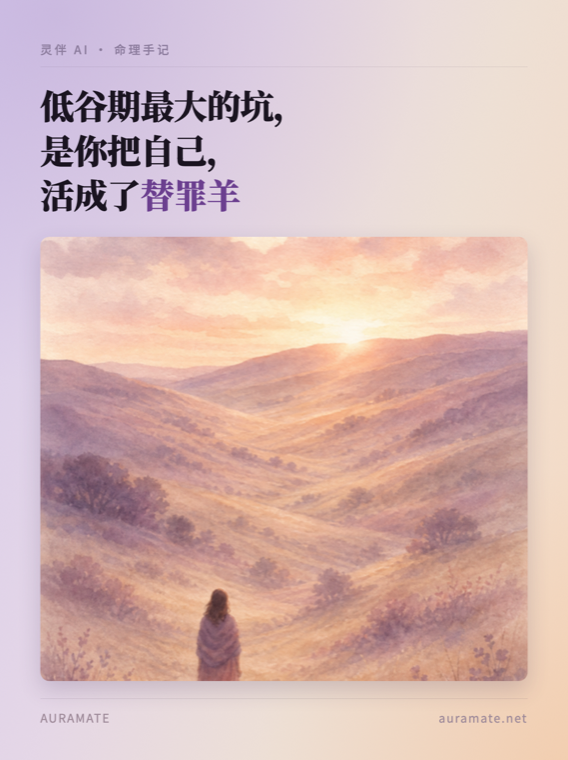
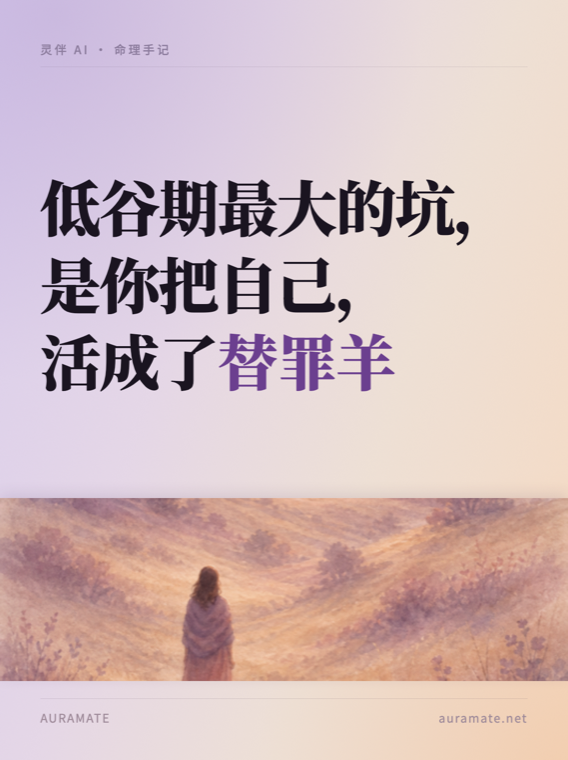
封面 v3：标题当主角，插图退成底部横带
v2 把插图 flex:1 铺满，图喧宾夺主 —— 用户「标题最重要，配图不能占大头」。

标题 74 → 132px，flex:1 垂直居中占上半。字号按每行字数选：
≤6 字 150 / 7–8 字 132 / 9–10 字 106。实测 148px 配 8 字会折行、
把手动 <br/> 断行冲掉，132 是 8 字行的天花板。

插图改成底部 400px（画面 24%）横带，margin:0 -88px 出血到左右边缘、
去圆角、只在上沿留一道浅阴影。竖构图插画裁成横带会切掉主体，
object-position:center 76% 把背影拉回画面。

v1 留白过多和 v2 图喧宾夺主两版都写进 02-visual-system.md 当反面教材。

diff --git a/templates/editorial-gradient/cover.html b/templates/editorial-gradient/cover.html
@@ -1,8 +1,17 @@
 <!doctype html><html><head><meta charset=utf-8><style>
-/* 模板 A · 渐变编辑风 —— 封面页  (v2, 2026-08-10)
-   字号：短标题 82 / 长标题 74。手动 <br/> 断行，别拆词。
-   插图 codex-image 生成，object-fit:cover 铺满 —— 会裁掉上下边，
-   生图时 prompt 里让主体居中，别把关键元素顶在画面边缘。 */
+/* 模板 A · 渐变编辑风 —— 封面页  (v3, 2026-08-10)
+   ★ 标题是主角，插图是配角。标题块 flex:1 占上半，插图是底部一条固定高度的横带。
+     v2 曾把插图 flex:1 铺满，图喧宾夺主 —— 用户原话「标题最重要，配图不能占大头」。
+
+   标题字号按每行字数选（手动 <br/> 断行，别拆词）：
+     每行 ≤6 字   → 150
+     每行 7–8 字  → 132  ← 默认
+     每行 9–10 字 → 106
+   超了会自动折行、把手动断行冲掉（148px 配 8 字就爆了，实测过）。
+
+   插图：底部横带 400px（画面 24%），margin:0 -88px 出血到左右边缘、不留圆角。
+   object-position:center 76% —— 竖构图插画裁成横带会切掉下方主体，
+   这个值把背影/主体拉回画面。换插图要重调这个百分比。 */
 @import url('https://fonts.googleapis.com/css2?family=Noto+Serif+SC:wght@400;500;700;900&family=Noto+Sans+SC:wght@400;500&display=swap');
 *{margin:0;padding:0;box-sizing:border-box;}
 html,body{width:1242px;height:1660px;font-family:'Noto Serif SC','Songti SC',serif;color:#2b2620;overflow:hidden;}
@@ -17,16 +26,17 @@ html,body{width:1242px;height:1660px;font-family:'Noto Serif SC','Songti SC',ser
 .frame > *{position:relative;z-index:1;}
 .kicker{font-family:'Noto Sans SC','PingFang SC',sans-serif;font-size:26px;font-weight:500;letter-spacing:0.2em;color:#8d7d9e;
   padding-bottom:20px;border-bottom:1px solid rgba(90,70,95,0.16);}
-.title{font-size:74px;font-weight:900;line-height:1.32;letter-spacing:-0.015em;color:#1a1420;margin-top:34px;}
+.titlewrap{flex:1;display:flex;align-items:center;min-height:0;}
+.title{font-size:132px;font-weight:900;line-height:1.28;letter-spacing:-0.02em;color:#1a1420;}
 .title .em{color:#6b3f8f;}
-.illo{flex:1;display:flex;align-items:flex-end;justify-content:center;min-height:0;margin-top:44px;}
-.illo img{width:100%;height:100%;object-fit:cover;display:block;border-radius:20px;
-  box-shadow:0 20px 48px rgba(72,48,92,0.20);}
+.illo{height:400px;flex-shrink:0;margin:0 -88px;}
+.illo img{width:100%;height:100%;object-fit:cover;object-position:center 76%;display:block;
+  box-shadow:0 -8px 28px rgba(72,48,92,0.12);}
 .foot{margin-top:38px;padding-top:22px;border-top:1px solid rgba(90,70,95,0.18);display:flex;justify-content:space-between;align-items:center;
   font-family:'Noto Sans SC','PingFang SC',sans-serif;font-size:26px;color:#9e8a99;letter-spacing:0.1em;}
 </style></head><body><div class="frame">
 <div class="kicker">灵伴 AI · {{系列名}}</div>
-<div class="title">{{标题第一行}}，<br/>{{标题第二行}}，<br/>{{第三行含}}<span class="em">{{accent词}}</span></div>
+<div class="titlewrap"><div class="title">{{标题第一行}}，<br/>{{标题第二行}}，<br/>{{第三行含}}<span class="em">{{accent词}}</span></div></div>
 <div class="illo"><img src="assets/illustration.png"/></div>
 <div class="foot"><span>AURAMATE</span><span>auramate.net</span></div>
 </div></body></html>

diff --git a/docs/demo/a1-cover.html b/docs/demo/a1-cover.html
@@ -1,8 +1,17 @@
 <!doctype html><html><head><meta charset=utf-8><style>
-/* 模板 A · 渐变编辑风 —— 封面页  (v2, 2026-08-10)
-   字号：短标题 82 / 长标题 74。手动 <br/> 断行，别拆词。
-   插图 codex-image 生成，object-fit:cover 铺满 —— 会裁掉上下边，
-   生图时 prompt 里让主体居中，别把关键元素顶在画面边缘。 */
+/* 模板 A · 渐变编辑风 —— 封面页  (v3, 2026-08-10)
+   ★ 标题是主角，插图是配角。标题块 flex:1 占上半，插图是底部一条固定高度的横带。
+     v2 曾把插图 flex:1 铺满，图喧宾夺主 —— 用户原话「标题最重要，配图不能占大头」。
+
+   标题字号按每行字数选（手动 <br/> 断行，别拆词）：
+     每行 ≤6 字   → 150
+     每行 7–8 字  → 132  ← 默认
+     每行 9–10 字 → 106
+   超了会自动折行、把手动断行冲掉（148px 配 8 字就爆了，实测过）。
+
+   插图：底部横带 400px（画面 24%），margin:0 -88px 出血到左右边缘、不留圆角。
+   object-position:center 76% —— 竖构图插画裁成横带会切掉下方主体，
+   这个值把背影/主体拉回画面。换插图要重调这个百分比。 */
 @import url('https://fonts.googleapis.com/css2?family=Noto+Serif+SC:wght@400;500;700;900&family=Noto+Sans+SC:wght@400;500&display=swap');
 *{margin:0;padding:0;box-sizing:border-box;}
 html,body{width:1242px;height:1660px;font-family:'Noto Serif SC','Songti SC',serif;color:#2b2620;overflow:hidden;}
@@ -17,16 +26,17 @@ html,body{width:1242px;height:1660px;font-family:'Noto Serif SC','Songti SC',ser
 .frame > *{position:relative;z-index:1;}
 .kicker{font-family:'Noto Sans SC','PingFang SC',sans-serif;font-size:26px;font-weight:500;letter-spacing:0.2em;color:#8d7d9e;
   padding-bottom:20px;border-bottom:1px solid rgba(90,70,95,0.16);}
-.title{font-size:74px;font-weight:900;line-height:1.32;letter-spacing:-0.015em;color:#1a1420;margin-top:34px;}
+.titlewrap{flex:1;display:flex;align-items:center;min-height:0;}
+.title{font-size:132px;font-weight:900;line-height:1.28;letter-spacing:-0.02em;color:#1a1420;}
 .title .em{color:#6b3f8f;}
-.illo{flex:1;display:flex;align-items:flex-end;justify-content:center;min-height:0;margin-top:44px;}
-.illo img{width:100%;height:100%;object-fit:cover;display:block;border-radius:20px;
-  box-shadow:0 20px 48px rgba(72,48,92,0.20);}
+.illo{height:400px;flex-shrink:0;margin:0 -88px;}
+.illo img{width:100%;height:100%;object-fit:cover;object-position:center 76%;display:block;
+  box-shadow:0 -8px 28px rgba(72,48,92,0.12);}
 .foot{margin-top:38px;padding-top:22px;border-top:1px solid rgba(90,70,95,0.18);display:flex;justify-content:space-between;align-items:center;
   font-family:'Noto Sans SC','PingFang SC',sans-serif;font-size:26px;color:#9e8a99;letter-spacing:0.1em;}
 </style></head><body><div class="frame">
 <div class="kicker">灵伴 AI · 命理手记</div>
-<div class="title">低谷期最大的坑，<br/>是你把自己，<br/>活成了<span class="em">替罪羊</span></div>
+<div class="titlewrap"><div class="title">低谷期最大的坑，<br/>是你把自己，<br/>活成了<span class="em">替罪羊</span></div></div>
 <div class="illo"><img src="assets/illustration.png"/></div>
 <div class="foot"><span>AURAMATE</span><span>auramate.net</span></div>
 </div></body></html>

diff --git a/skills/auramate-tuwen/references/02-visual-system.md b/skills/auramate-tuwen/references/02-visual-system.md
@@ -43,19 +43,36 @@
 
 | 元素 | 字号 | 说明 |
 |---|---|---|
-| 封面大标题 | **82**（短标题）/ **74**（长标题） | 要大要醒目，手动 `<br/>` 断行别拆词 |
+| 封面大标题 | **150 / 132 / 106**（按每行字数，见下） | 标题是封面主角，手动 `<br/>` 断行别拆词 |
 | 内页 head | **52** | 产品图页的说明标题 |
 | 正文 | **44** | 所有 slide 统一，line-height 1.9 |
 | kicker / footer | **26** | 灰紫小字，算 meta 不算正文 |
 
 > 「正文统一」和「封面标题大」不矛盾：body 统一 44，cover title 单独放大。
 
+**封面标题字号按每行字数选**（1242 画布、88 边距，可用宽度 1066）：
+
+| 每行字数 | 字号 | 说明 |
+|---|---|---|
+| ≤ 6 字 | **150** | 短钩子标题 |
+| 7–8 字 | **132** | 默认 |
+| 9–10 字 | **106** | 长标题 |
+
+超了会自动折行、把你的手动 `<br/>` 断行冲掉。实测 148px 配 8 字就爆了 ——「低谷期最大的坑，」会断成两行。改字号前先数字数。
+
 ### 三种页型
 
-1. **封面页** — kicker + 分隔线 + 大标题 + 插画（codex 生成）+ footer。
-   插画 `width:100%;height:100%;object-fit:cover` **铺满内容区** —— v1 用 `max-width:540px`
-   只占了一半宽度，两侧和上方都是大白，正好犯了自己定的「不留白」。
-   代价是会裁掉上下边，生图时 prompt 要求主体居中。
+1. **封面页** — kicker + 分隔线 + 大标题（`flex:1` 垂直居中，占上半）+ 底部插图横带 + footer。
+
+   **标题是主角，插图是配角。** 插图 = 底部一条固定 **400px**（画面 24%）的横带，
+   `margin:0 -88px` 出血到左右边缘、不留圆角，只在上沿加一道浅阴影分层。
+
+   踩过的两个坑：
+   - v1 插图 `max-width:540px` 只占一半宽度，两侧和上方大白 → 犯了自己定的「不留白」。
+   - v2 矫枉过正，插图 `flex:1` 铺满 → 图喧宾夺主。用户原话「标题最重要，配图不能占大头」。
+
+   竖构图插画裁成横带会切掉下方主体，用 `object-position:center 76%` 把背影/主体拉回画面。
+   **换插图要重调这个百分比**，渲完肉眼确认主体在带子里。
 2. **正文页** — kicker + 2–3 段正文 + footer。**每张写满字**，别一段一张、别大片留白
 3. **产品图页** — kicker + head(52) + 产品截图卡 + footer
 
